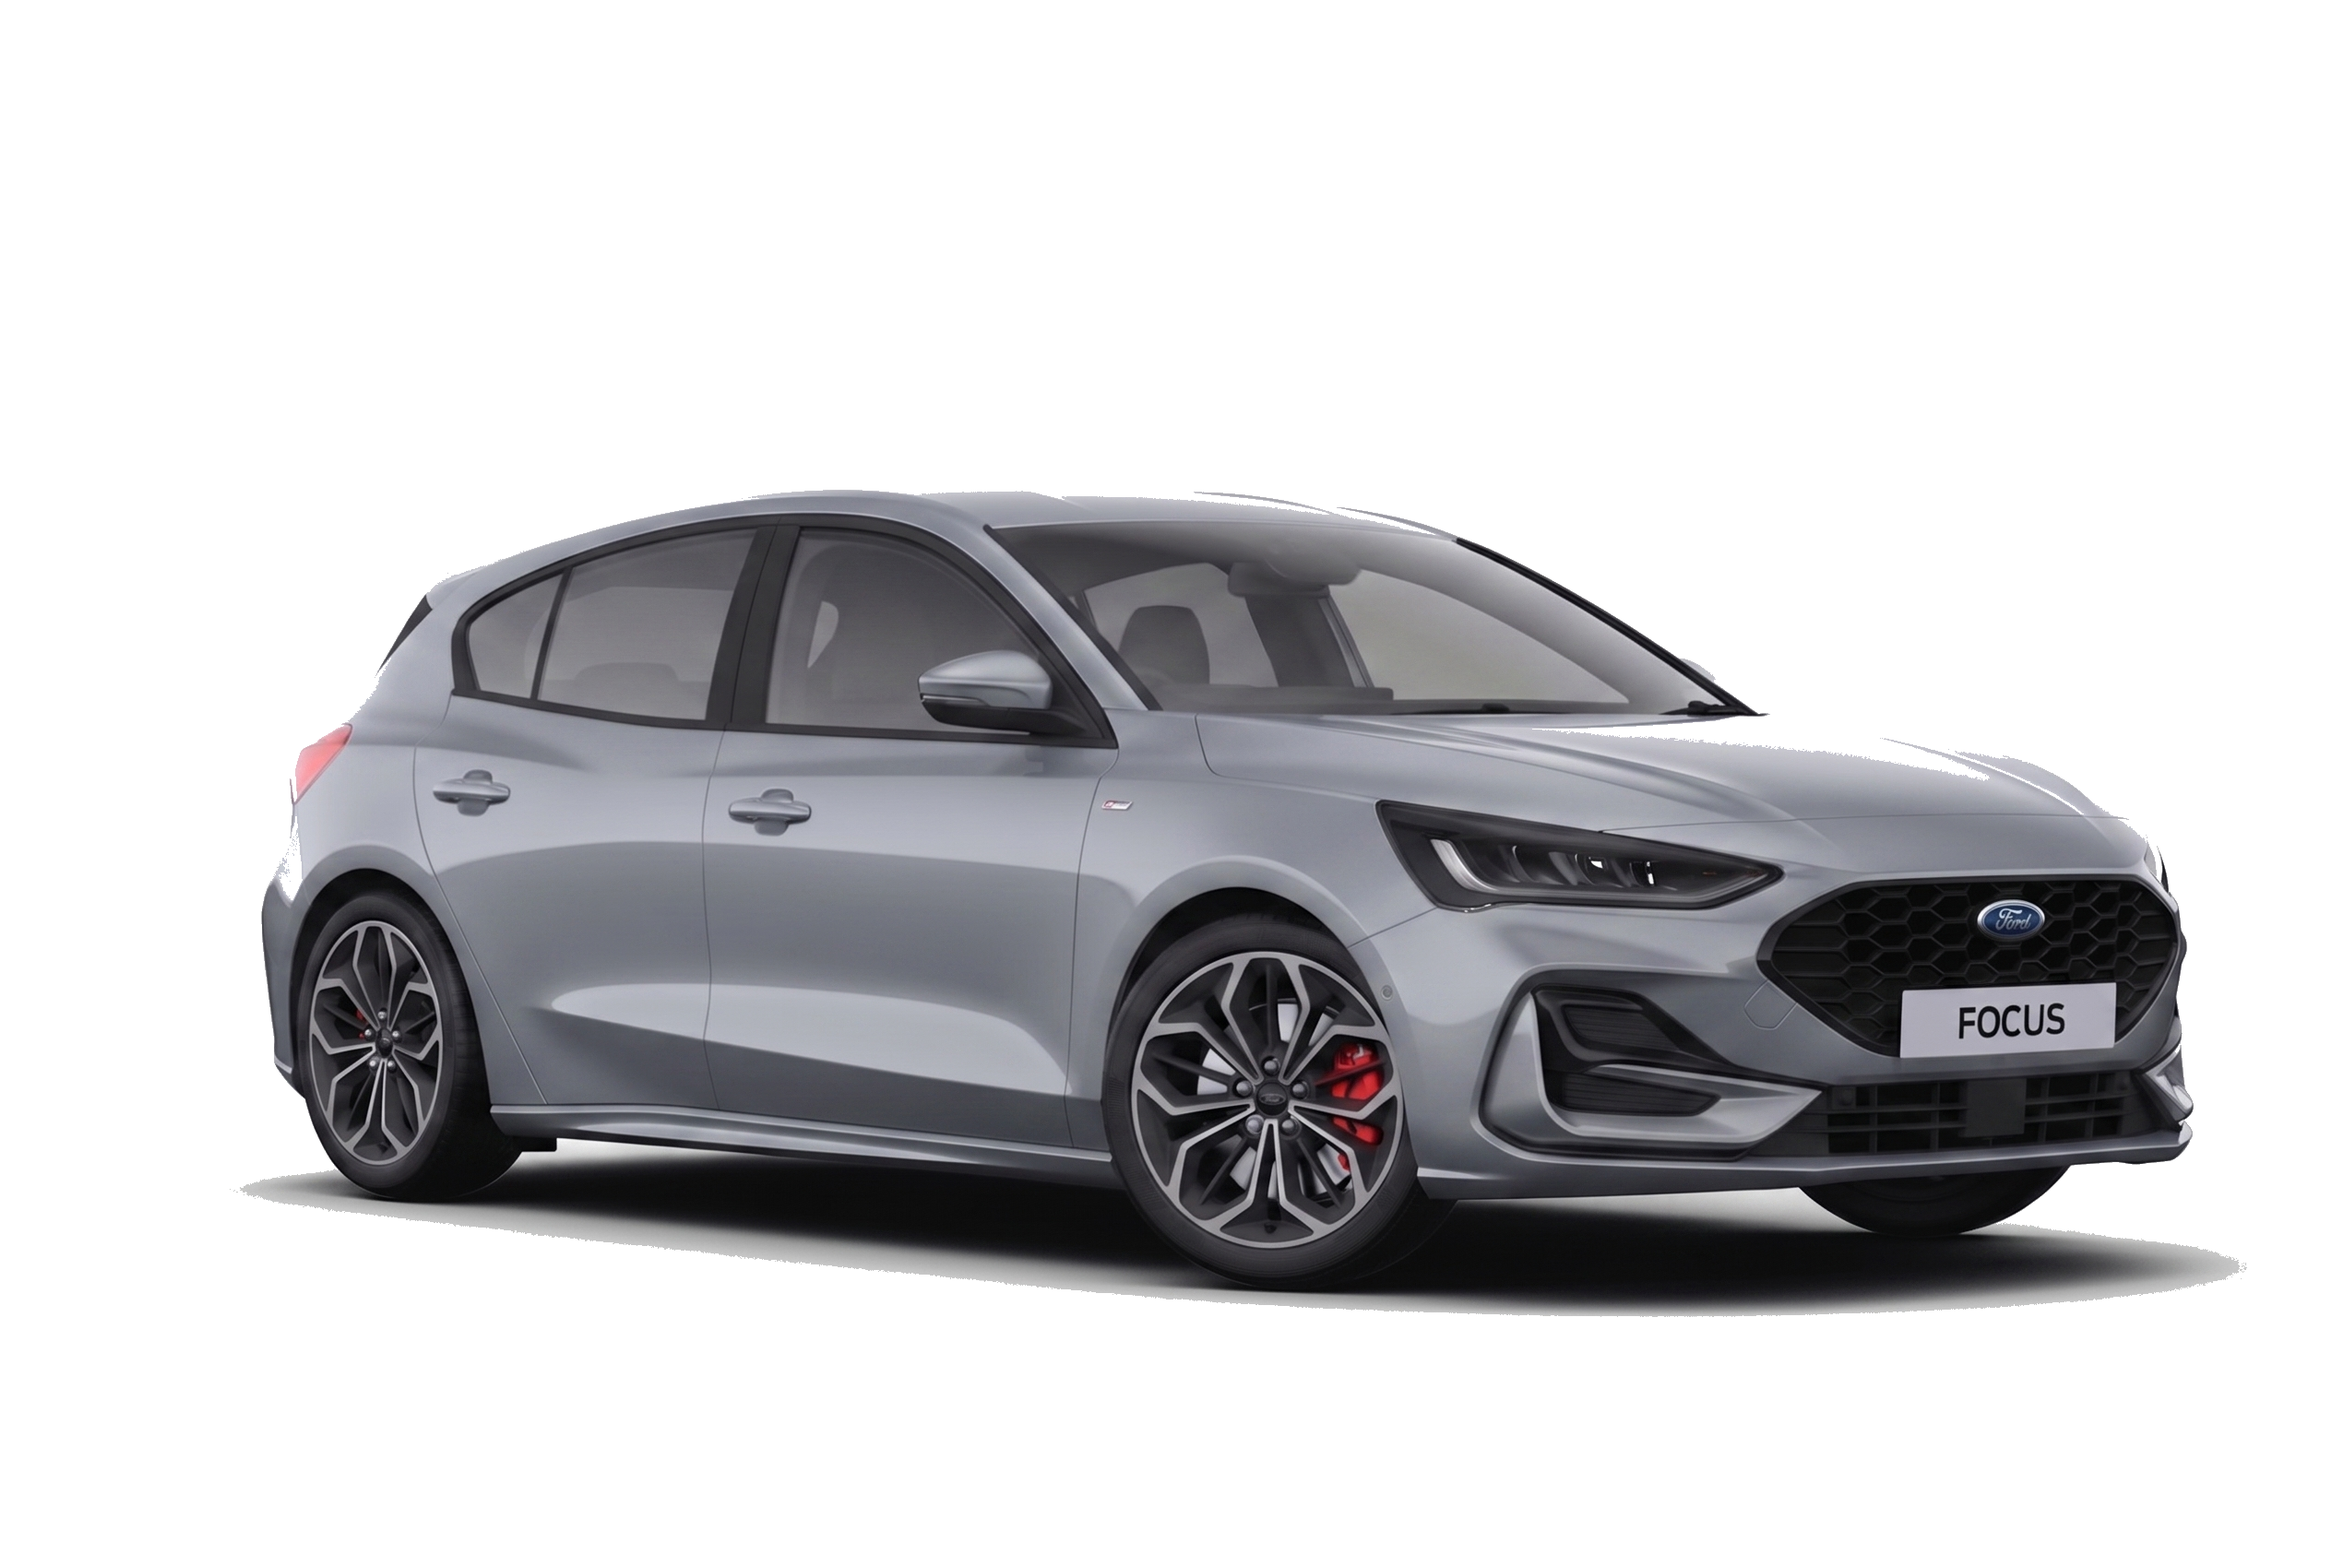
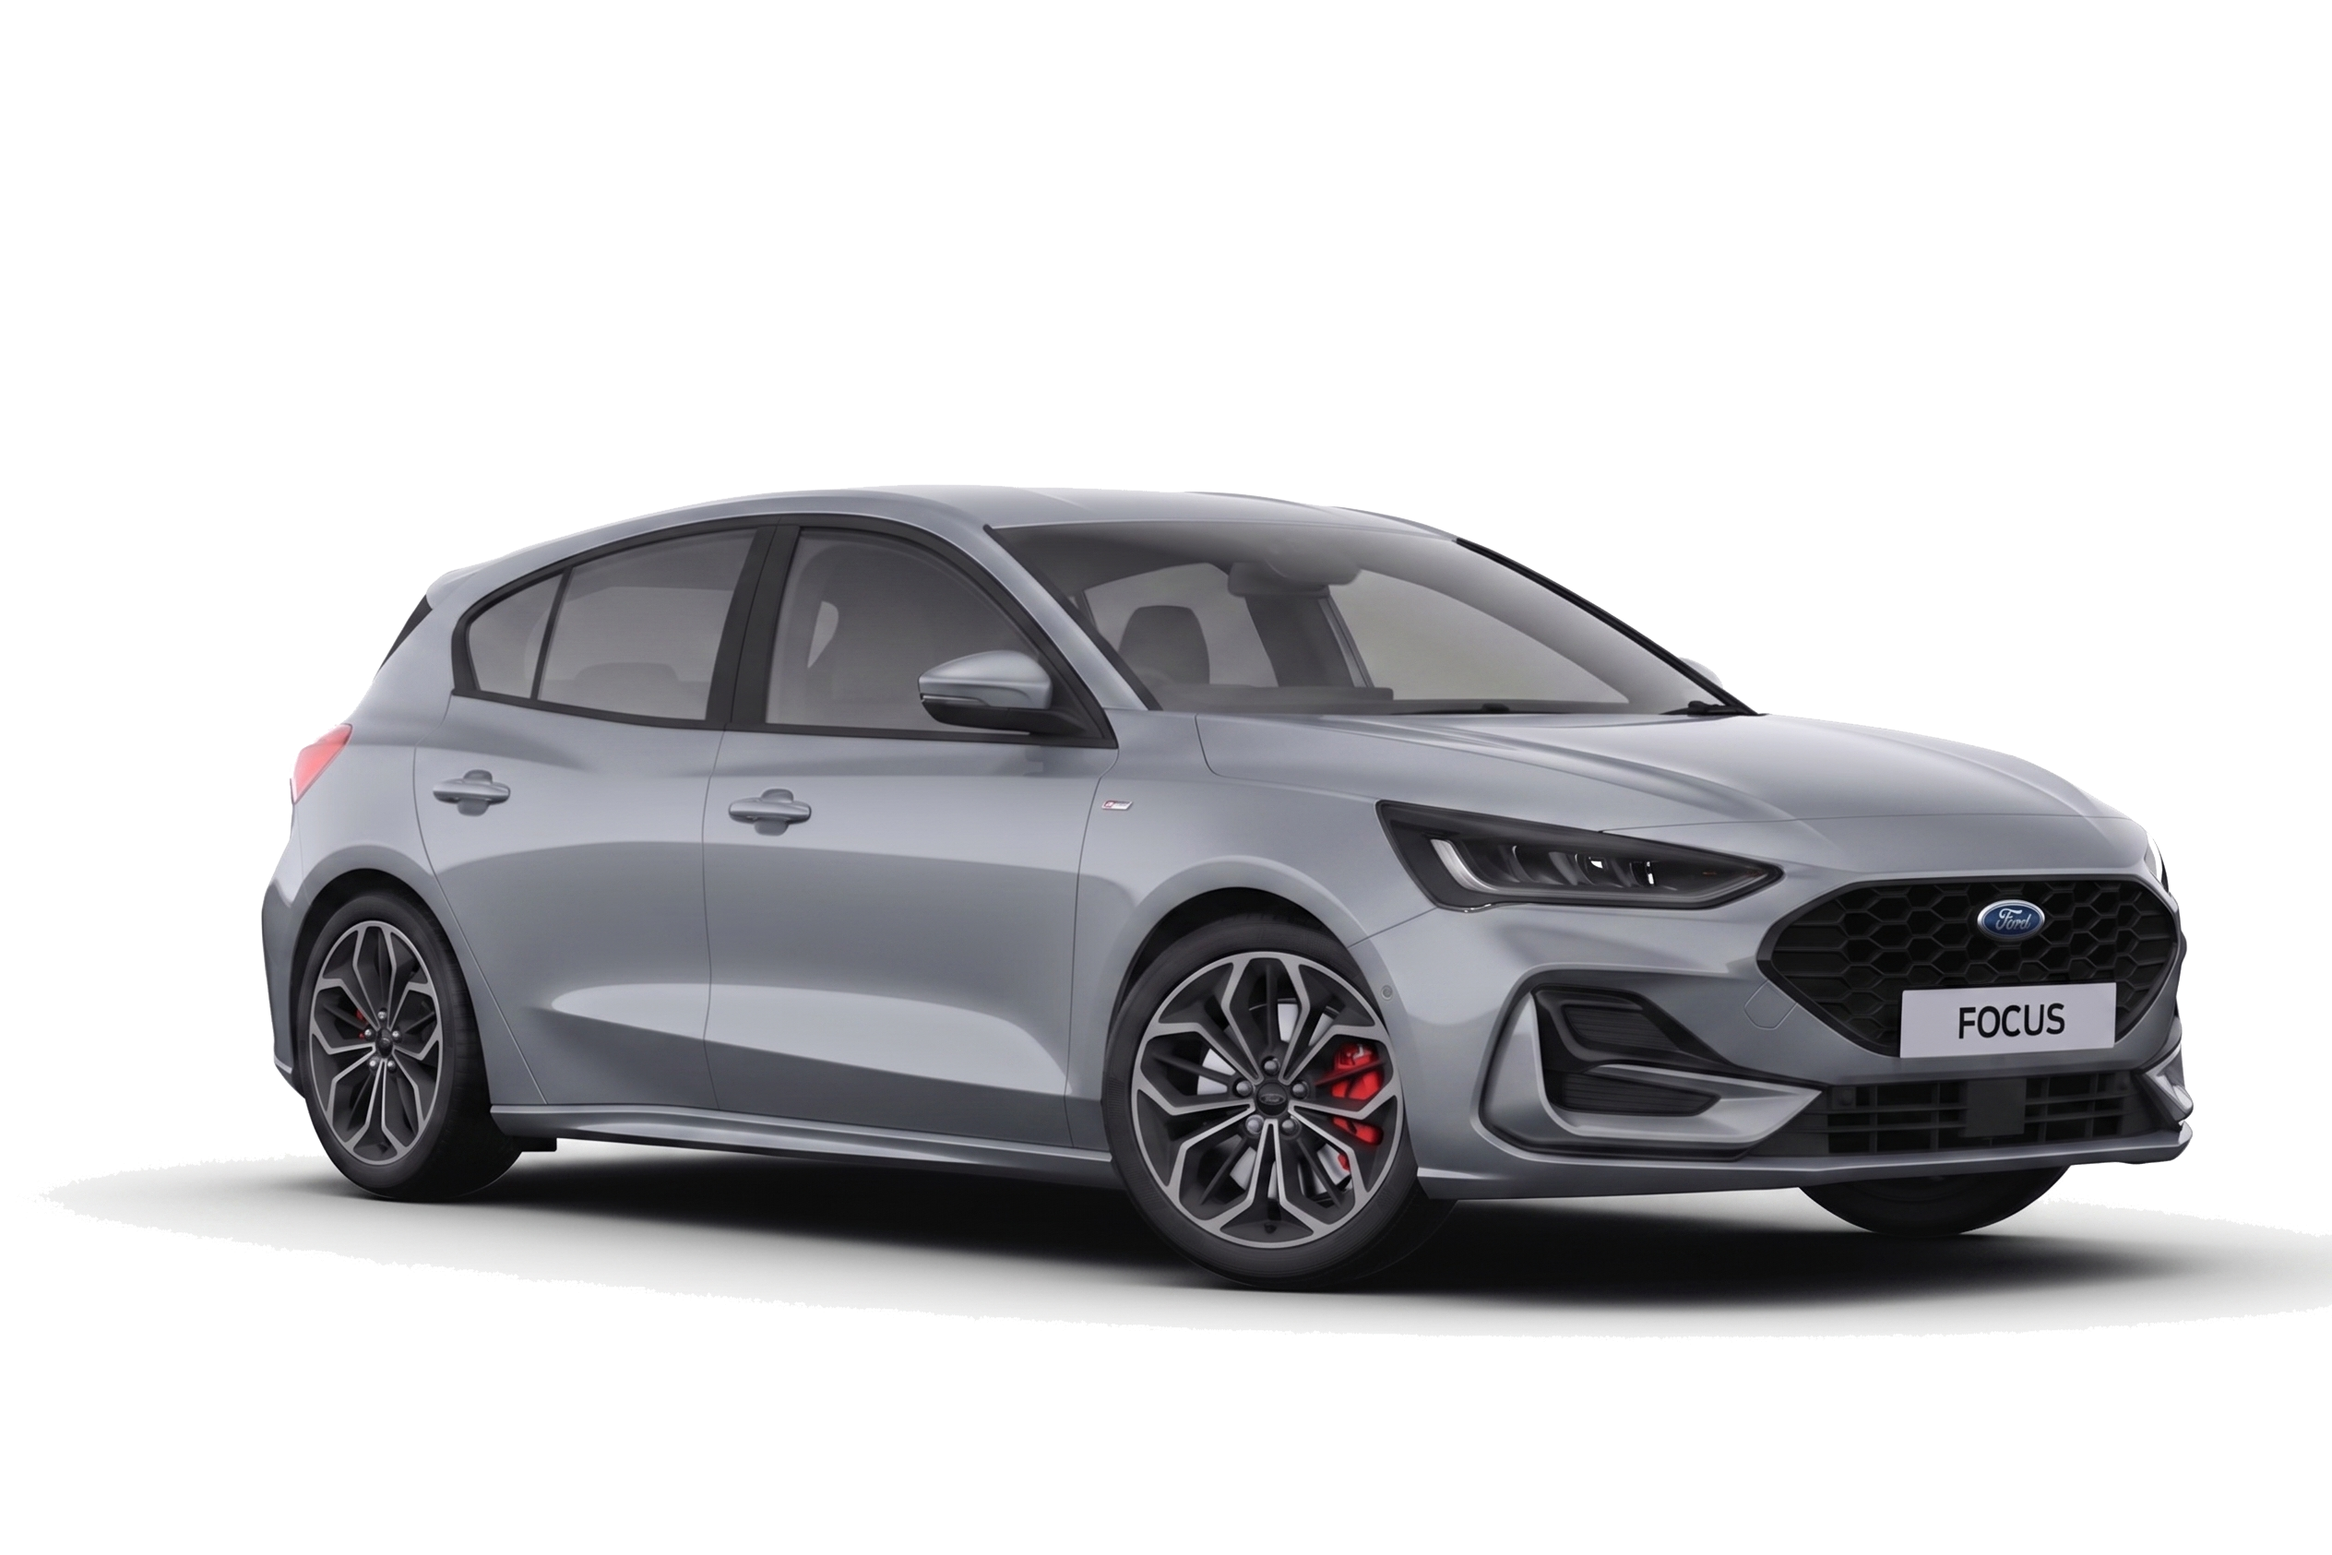
fix: cleaner Focus cutout with edge feathering, larger hero render

Changed region(s): [[0.0625, 0.7402, 1.0, 0.8636], [0.375, 0.3084, 0.5938, 0.3393], [0.6875, 0.4626, 0.875, 0.4935]]

diff --git a/src/pages/DashboardPage.tsx b/src/pages/DashboardPage.tsx
@@ -845,7 +845,7 @@ const Sparkline = ({ data, width = 460, height = 120 }: {
 // ─── Vehicle render ──────────────────────────────────────────────────────────
 const VehicleRender = () => (
   <div style={{
-    width: '100%', maxWidth: 460, alignSelf: 'flex-end',
+    width: '100%', maxWidth: 580, alignSelf: 'center',
     margin: '0 auto',
   }}>
     <img
